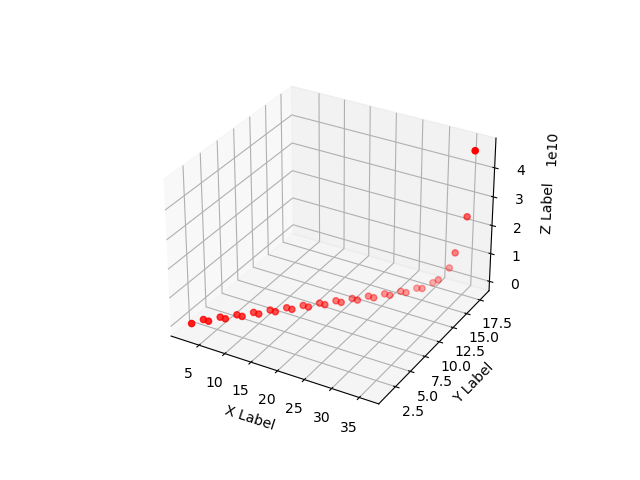
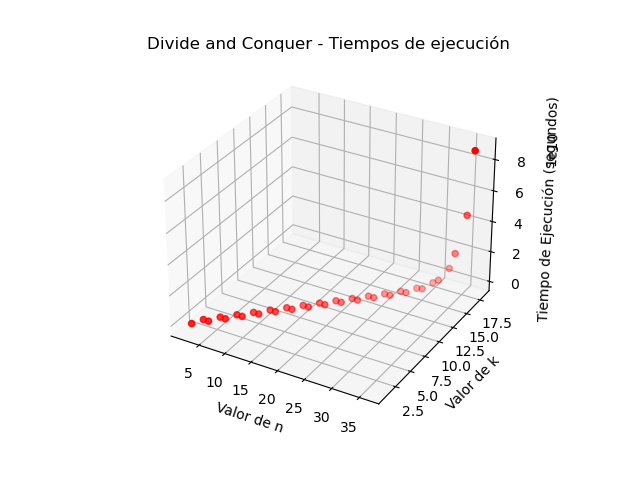
update:MakePng's

diff --git a/DivideAndConquer/divideAndConquer.py b/DivideAndConquer/divideAndConquer.py
@@ -22,7 +22,8 @@ ax = fig.add_subplot(111, projection='3d')
 ax.scatter(x, y, z, c='r', marker='o')
 
 # Set labels
-ax.set_xlabel('X Label')
-ax.set_ylabel('Y Label')
-ax.set_zlabel('Z Label')
+ax.set_xlabel('Valor de n')
+ax.set_ylabel('Valor de k')
+ax.set_zlabel('Tiempo de Ejecución (segundos)')
+plt.title('Divide and Conquer - Tiempos de ejecución')
 plt.savefig('divideAndConquer.png')

diff --git a/programacionDinamica.py b/programacionDinamica.py
@@ -64,6 +64,8 @@ ax.set_xlabel('Valor de n')
 ax.set_ylabel('Valor de k')
 ax.set_zlabel('Tiempo de Ejecución (segundos)')
 
-plt.title('Tiempo de Ejecución del Programa')
+plt.title('Programación dinámica - Tiempos de ejecución')
 
 plt.show()
+
+plt.savefig('programacionDinamica.png')

diff --git a/DivideAndConquer/divideAndConquer.cpp b/DivideAndConquer/divideAndConquer.cpp
@@ -12,6 +12,7 @@ namespace plt = matplotlibcpp;
 
 // Function to calculate binomial coefficient recursively
 int binomialCoeff(int n, int k) {
+    // cout<<n<<":"<<k<<endl;
     if (k > n)
         return 0;
     if (k == 0 || k == n)
